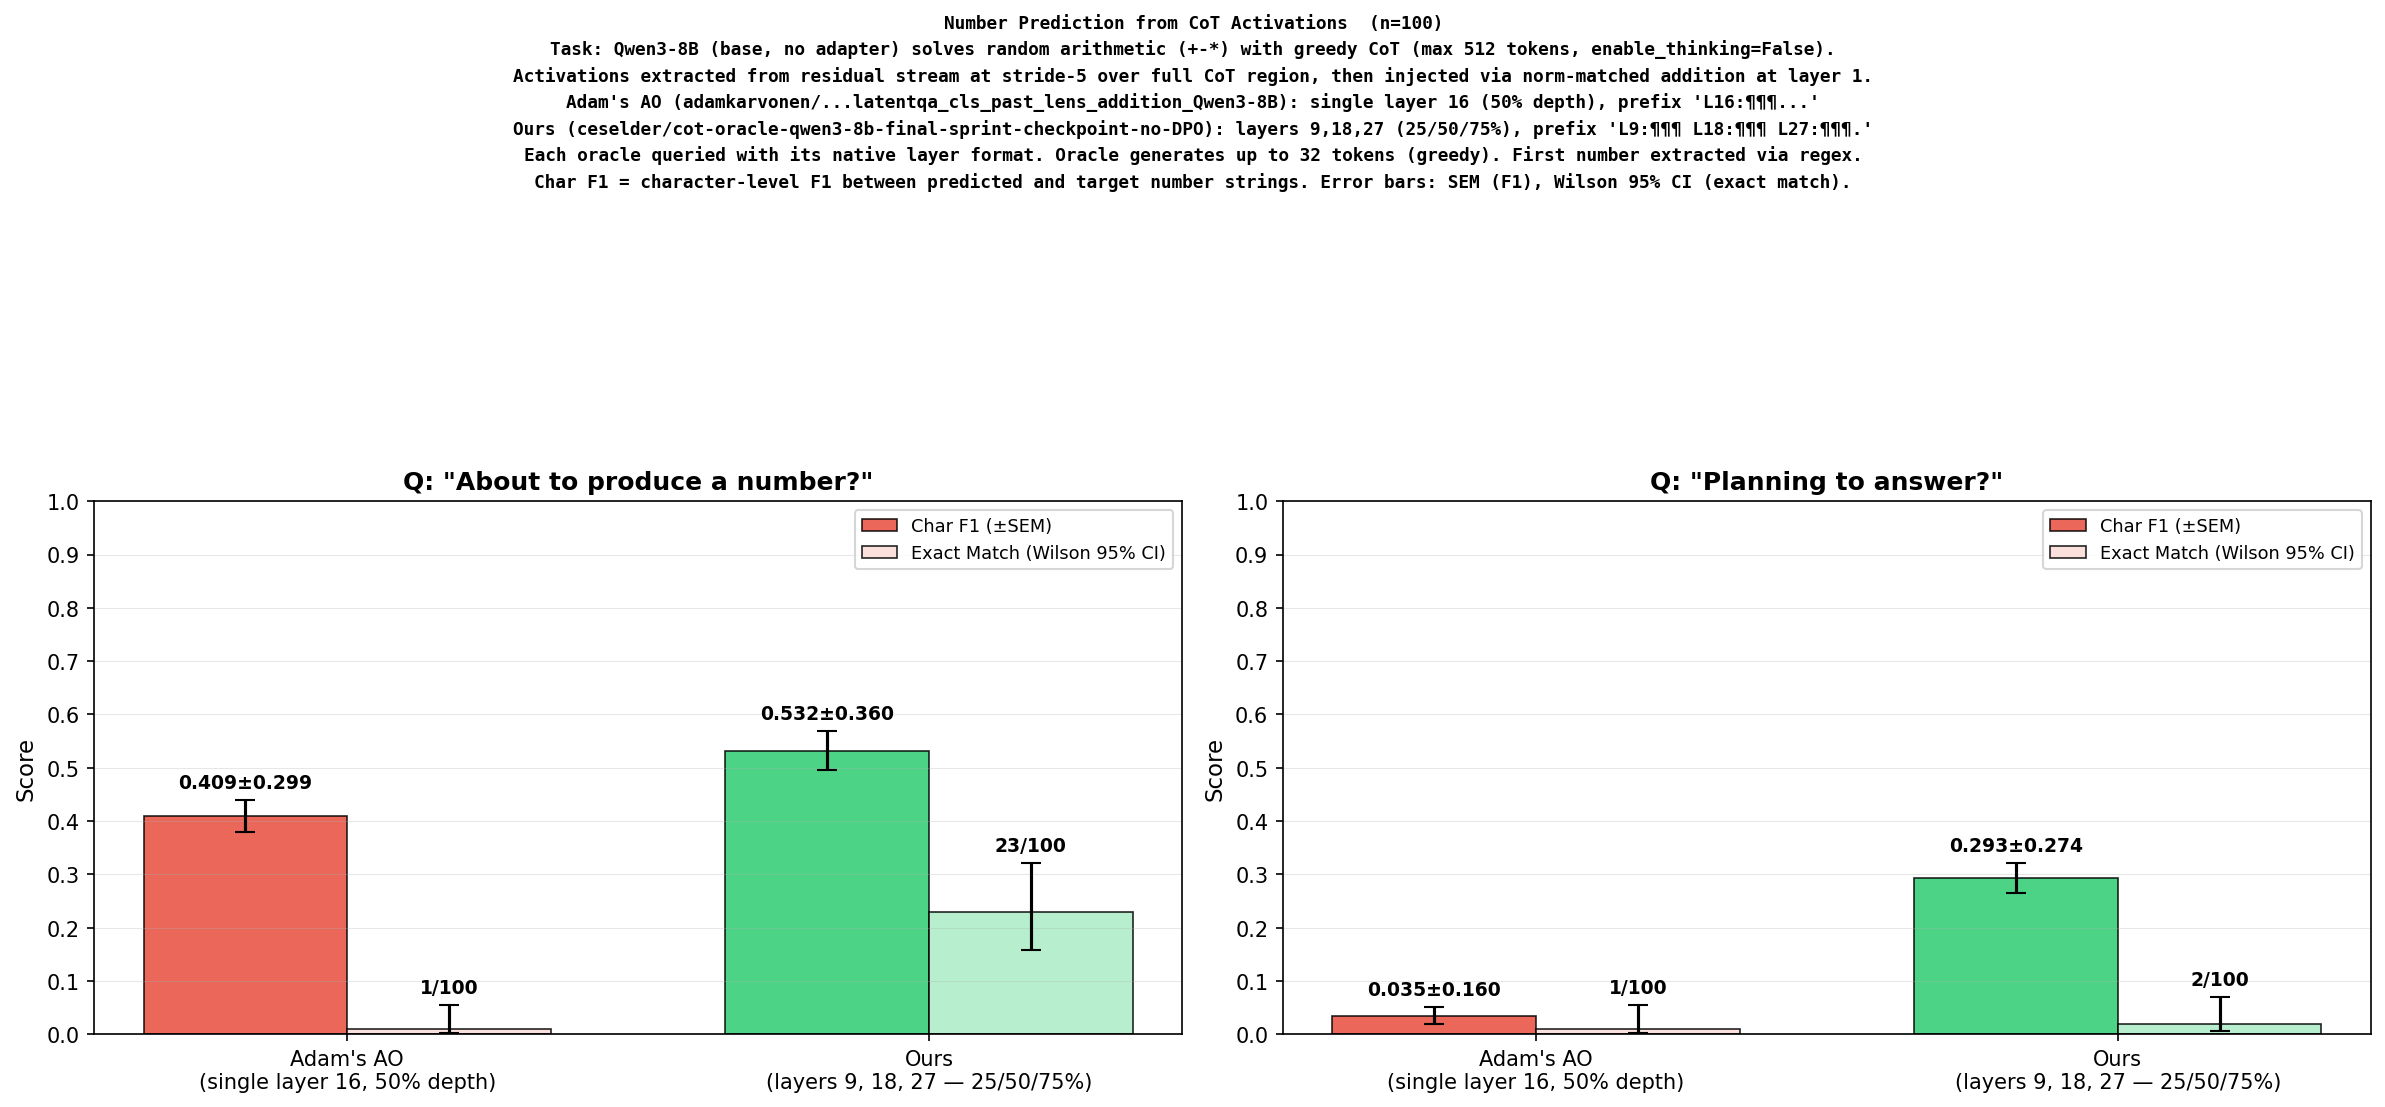
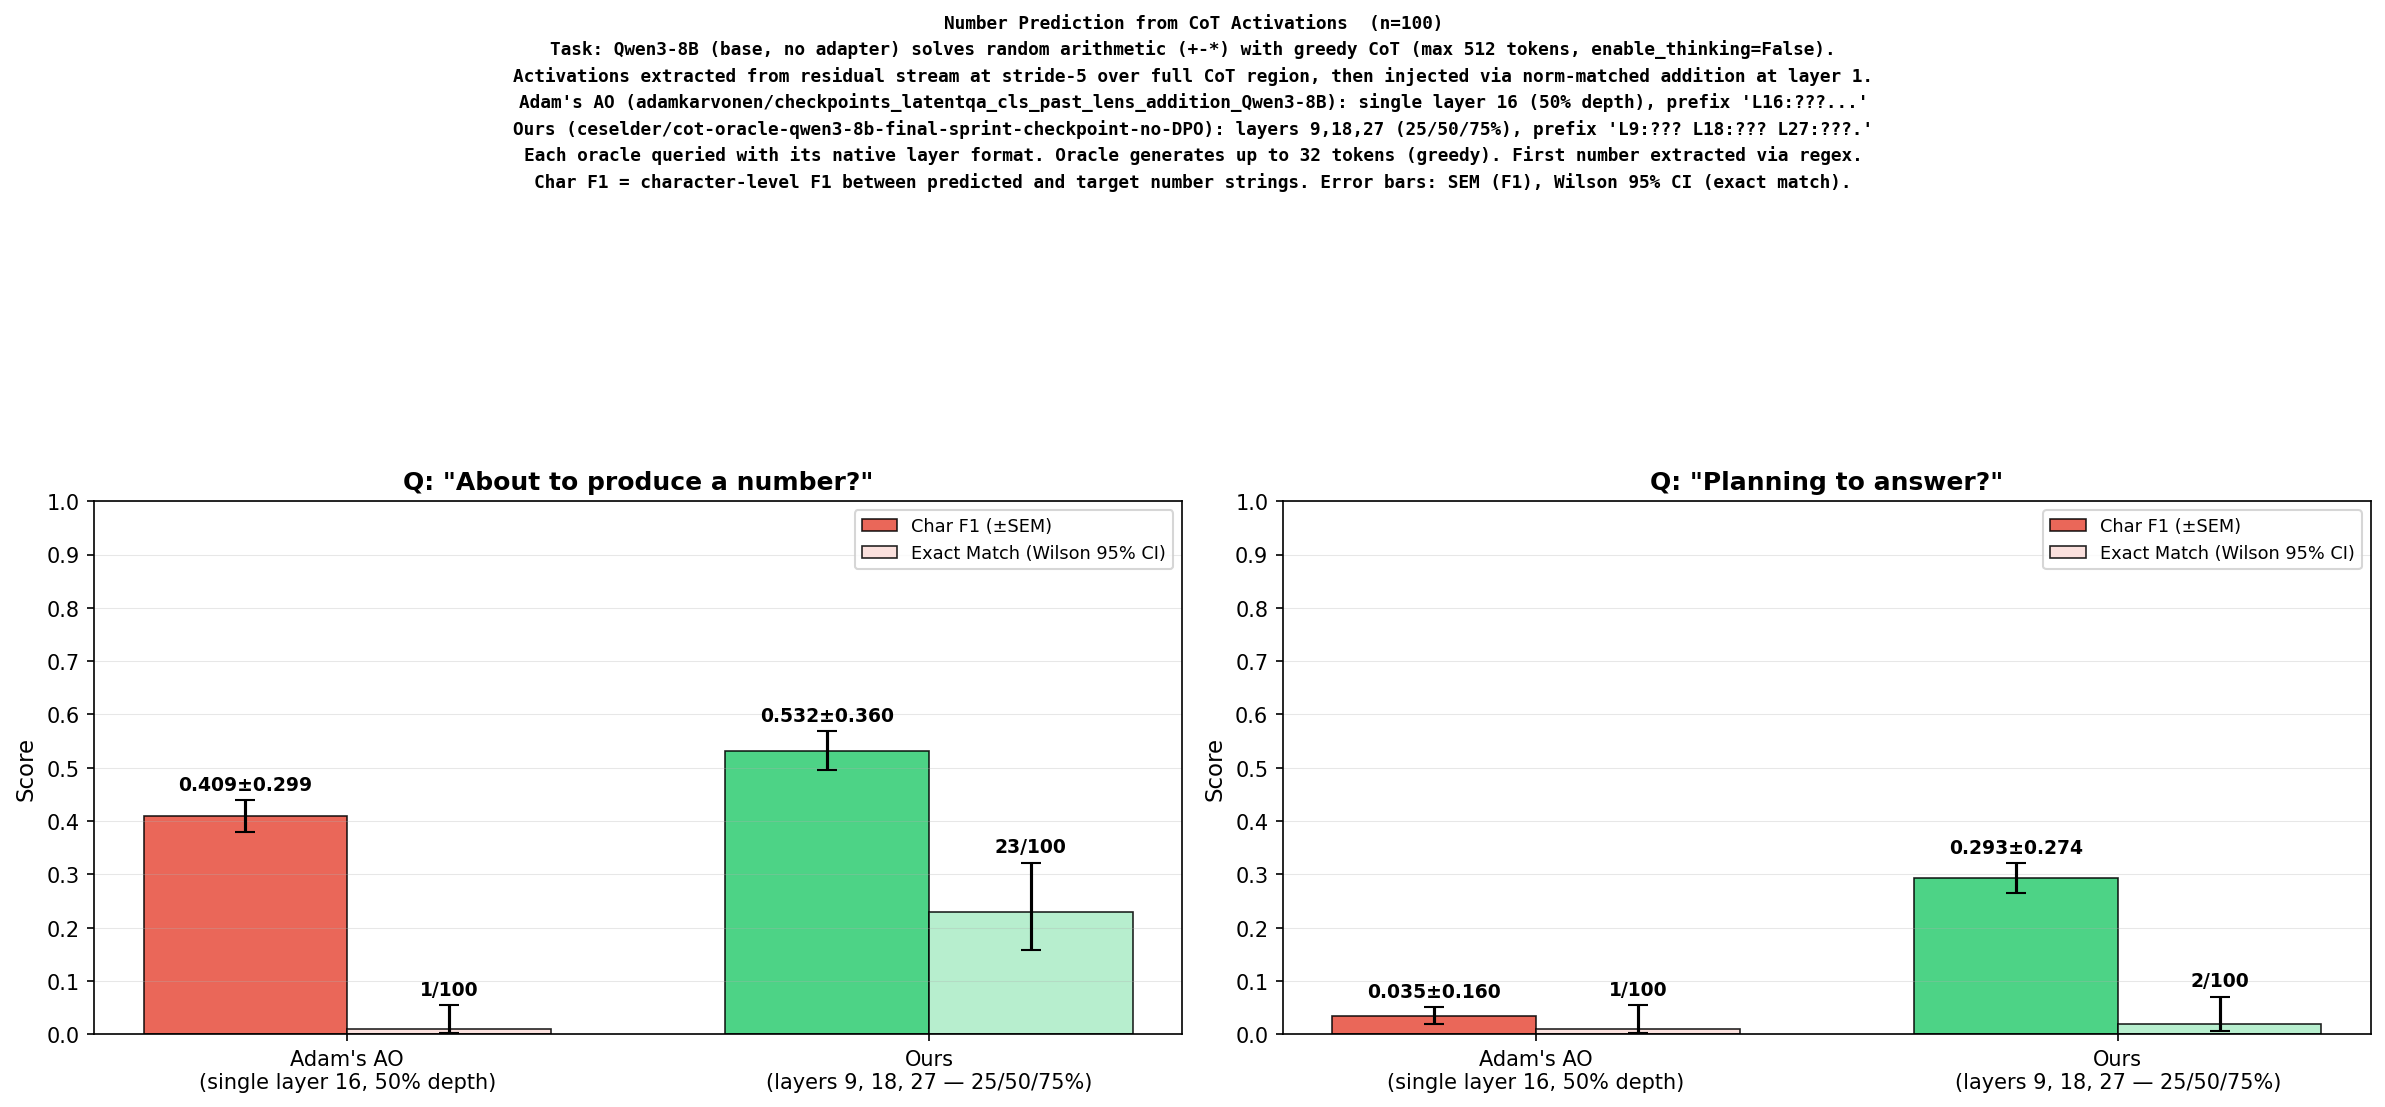
Fix number prediction charts: correct placeholder symbol, add clean slide version, 0-1 y-axis
Rerun confirmed identical results (deterministic greedy, n=100):
- Q0 "About to produce a number?": Ours 23/100 exact, Adam 1/100
- Q1 "Planning to answer?": Ours 2/100 exact, Adam 1/100

diff --git a/scripts/test_number_prediction.py b/scripts/test_number_prediction.py
@@ -353,8 +353,8 @@ def main():
             ], fontsize=10)
             ax.set_ylabel("Score", fontsize=11)
             ax.set_title(f"Q: \"{q}\"", fontsize=12, fontweight="bold")
-            ymax = max(max(f1_vals), max(exact_vals))
-            ax.set_ylim(0, max(0.15, ymax + 0.18))
+            ax.set_ylim(0, 1.0)
+            ax.set_yticks(np.arange(0, 1.1, 0.1))
             ax.legend(loc="upper right", fontsize=8.5)
             ax.grid(axis='y', alpha=0.3, linewidth=0.5)
 
@@ -378,8 +378,8 @@ def main():
             f"Number Prediction from CoT Activations  (n={len(results)})\n"
             f"Task: Qwen3-8B (base, no adapter) solves random arithmetic (+-*) with greedy CoT (max 512 tokens, enable_thinking=False).\n"
             f"Activations extracted from residual stream at stride-{STRIDE} over full CoT region, then injected via norm-matched addition at layer 1.\n"
-            f"Adam's AO (adamkarvonen/checkpoints_latentqa_cls_past_lens_addition_Qwen3-8B): single layer 16 (50% depth), prefix 'L16:¶¶¶...'\n"
-            f"Ours (ceselder/cot-oracle-qwen3-8b-final-sprint-checkpoint-no-DPO): layers 9,18,27 (25/50/75%), prefix 'L9:¶¶¶ L18:¶¶¶ L27:¶¶¶.'\n"
+            f"Adam's AO (adamkarvonen/checkpoints_latentqa_cls_past_lens_addition_Qwen3-8B): single layer 16 (50% depth), prefix 'L16:???...'\n"
+            f"Ours (ceselder/cot-oracle-qwen3-8b-final-sprint-checkpoint-no-DPO): layers 9,18,27 (25/50/75%), prefix 'L9:??? L18:??? L27:???.'\n"
             f"Each oracle queried with its native layer format. Oracle generates up to 32 tokens (greedy). First number extracted via regex.\n"
             f"Char F1 = character-level F1 between predicted and target number strings. Error bars: SEM (F1), Wilson 95% CI (exact match)."
         )
@@ -389,6 +389,69 @@ def main():
         chart_path = "data/number_prediction_chart.png"
         plt.savefig(chart_path, dpi=150, bbox_inches="tight")
         print(f"\nChart saved to {chart_path}")
+        plt.close()
+
+        # Clean version (no methodology header) for slides
+        fig2, axes2 = plt.subplots(1, 2, figsize=(14, 5.5))
+        for qi, q in enumerate(QUESTIONS):
+            ax = axes2[qi]
+            af = [r[f"adam_{qi}_f1"] for r in results]
+            of = [r[f"trained_{qi}_f1"] for r in results]
+            ae = [r[f"adam_{qi}_exact"] for r in results]
+            oe = [r[f"trained_{qi}_exact"] for r in results]
+
+            n = len(results)
+            x = np.arange(2)
+            width = 0.35
+            f1_vals = [np.mean(af), np.mean(of)]
+            f1_stds = [np.std(af), np.std(of)]
+            exact_vals = [np.mean(ae), np.mean(oe)]
+            f1_errs = [s / np.sqrt(n) for s in f1_stds]
+
+            adam_k = int(sum(ae))
+            ours_k = int(sum(oe))
+            adam_lo, adam_hi = wilson_ci(adam_k, n)
+            ours_lo, ours_hi = wilson_ci(ours_k, n)
+            exact_lo = [exact_vals[0] - adam_lo, exact_vals[1] - ours_lo]
+            exact_hi = [adam_hi - exact_vals[0], ours_hi - exact_vals[1]]
+
+            b1 = ax.bar(x - width/2, f1_vals, width, yerr=f1_errs, label="Char F1 (±SEM)",
+                        color=["#e74c3c", "#2ecc71"], alpha=0.85, capsize=5, edgecolor="black", linewidth=0.8)
+            b2 = ax.bar(x + width/2, exact_vals, width, yerr=[exact_lo, exact_hi],
+                        label="Exact Match (Wilson 95% CI)",
+                        color=["#fadbd8", "#abebc6"], alpha=0.85, capsize=5, edgecolor="black", linewidth=0.8)
+
+            ax.set_xticks(x)
+            ax.set_xticklabels([
+                f"Adam's AO\n(single layer 16, 50% depth)",
+                f"Ours\n(layers 9, 18, 27 — 25/50/75%)"
+            ], fontsize=10)
+            ax.set_ylabel("Score", fontsize=11)
+            ax.set_title(f"Q: \"{q}\"", fontsize=12, fontweight="bold")
+            ax.set_ylim(0, 1.0)
+            ax.set_yticks(np.arange(0, 1.1, 0.1))
+            ax.legend(loc="upper right", fontsize=8.5)
+            ax.grid(axis='y', alpha=0.3, linewidth=0.5)
+
+            for i, bar in enumerate(b1):
+                h = bar.get_height()
+                if h > 0.001:
+                    ax.text(bar.get_x() + bar.get_width()/2, h + f1_errs[i] + 0.012,
+                            f"{h:.3f}±{f1_stds[i]:.3f}", ha="center", va="bottom",
+                            fontsize=9, fontweight="bold")
+            exact_ks = [adam_k, ours_k]
+            for i, bar in enumerate(b2):
+                h = bar.get_height()
+                top = h + [exact_hi][0][i]
+                ax.text(bar.get_x() + bar.get_width()/2, top + 0.012,
+                        f"{exact_ks[i]}/{n}", ha="center", va="bottom",
+                        fontsize=9, fontweight="bold")
+
+        fig2.suptitle(f"Number Prediction from CoT Activations  (n={len(results)})", fontsize=13, fontweight="bold")
+        plt.tight_layout(rect=[0, 0, 1, 0.93])
+        clean_path = "data/number_prediction_chart_clean.png"
+        plt.savefig(clean_path, dpi=150, bbox_inches="tight")
+        print(f"Clean chart saved to {clean_path}")
         plt.close()
     except ImportError:
         print("\n(matplotlib not available, skipping chart)")
